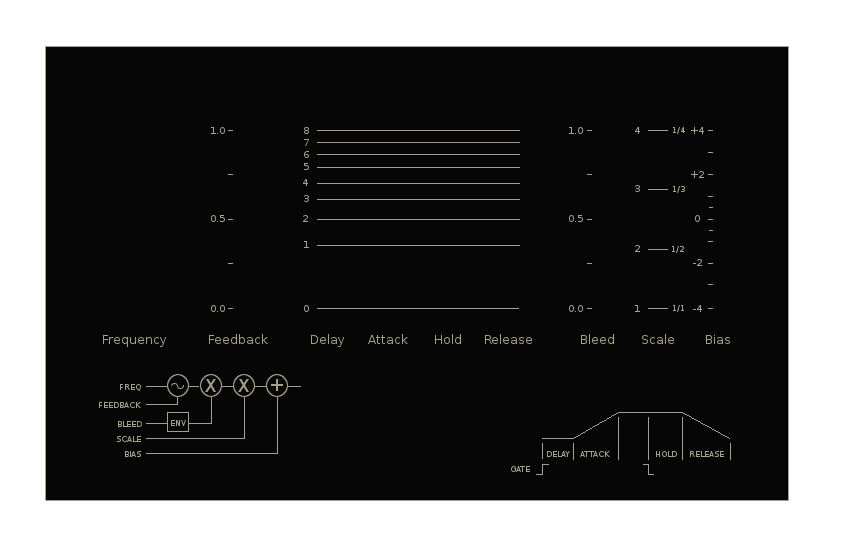
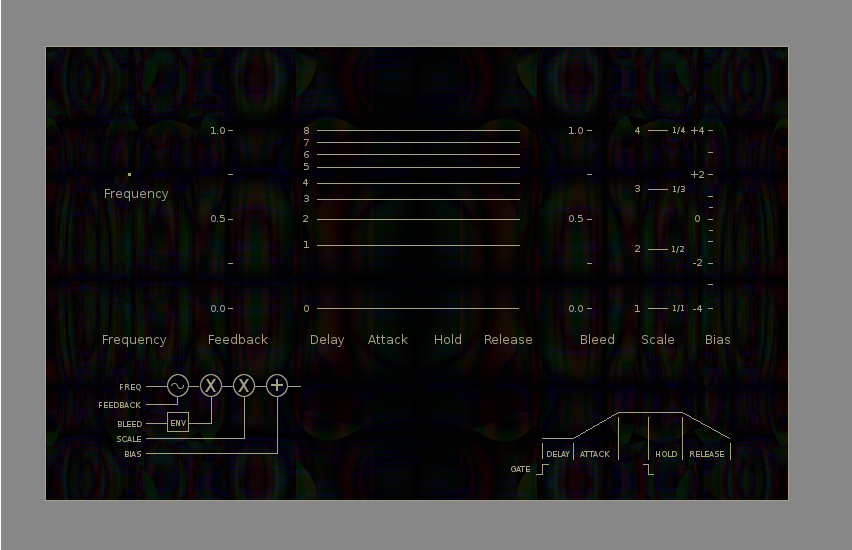
Updated to LFO1 to use Tumbler widget

Changed region(s): [[0.0, 0.0, 1.0, 1.0], [0.1221, 0.34, 0.2136, 0.3709]]

diff --git a/llia/synths/lfo1/tk/editor.py b/llia/synths/lfo1/tk/editor.py
@@ -4,7 +4,7 @@ from llia.gui.tk.tk_subeditor import TkSubEditor
 import llia.gui.tk.tk_factory as factory
 import llia.gui.tk.control_factory as cf
 from llia.gui.tk.expslider import ExpSlider
-from llia.gui.tk.freq_spinner import FrequencySpinnerControl
+from llia.gui.tk.tumbler import Tumbler
 from llia.gui.tk.reciprocal_slider import ReciprocalSlider
 
 
@@ -24,8 +24,7 @@ class TkLfo1Panel(TkSubEditor):
         canvas.pack()
         TkSubEditor.__init__(self, canvas, editor, self.NAME)
         editor.add_child_editor(self.NAME, self)
-        spin_freq = FrequencySpinnerControl(canvas,"lfoFreq",editor,
-                                            from_=0,to=1000)
+        tumbler = Tumbler(canvas,"lfoFreq",editor,digits=5,scale=0.001)
         s_feedback = cf.normalized_slider(canvas, "lfoFeedback", editor)
         s_delay = ExpSlider(canvas, "lfoDelay", editor, range_=8)
         s_attack = ExpSlider(canvas, "lfoAttack", editor, range_=8)
@@ -34,7 +33,7 @@ class TkLfo1Panel(TkSubEditor):
         s_bleed = cf.normalized_slider(canvas, "lfoBleed", editor)
         sr_scale = ReciprocalSlider(canvas, "lfoScale", editor, range_=4, degree=1)
         s_bias = cf.linear_slider(canvas, "lfoBias", editor, range_=(-4,4))
-        self.add_control("lfoFreq",spin_freq)
+        self.add_control("lfoFreq",tumbler)
         self.add_control("lfoFeedback",s_feedback)
         self.add_control("lfoDelay",s_delay)
         self.add_control("lfoAttack",s_attack)
@@ -55,13 +54,7 @@ class TkLfo1Panel(TkSubEditor):
         x_bleed = x_release + 90
         x_scale = x_bleed + 60
         x_bias = x_scale + 60
-        spin_freq.layout(offset=(x_freq,y0))
-        spin_freq.create_nudgetools(canvas,
-                                    offset=(x_freq+9,y0+30),
-                                    deltas=(100,10,1,0.1,0.01),
-                                    constant=1,
-                                    fill='#131313',
-                                    outline='#a5a08a')
+        tumbler.layout((x_freq+9,y0+30))
         s_feedback.widget().place(x=x_fb,y=y0, height=200)
         s_delay.layout(offset=(x_delay,y0),height=200,checkbutton_offset=None)
         s_attack.layout(offset=(x_attack,y0),height=200,checkbutton_offset=None)
